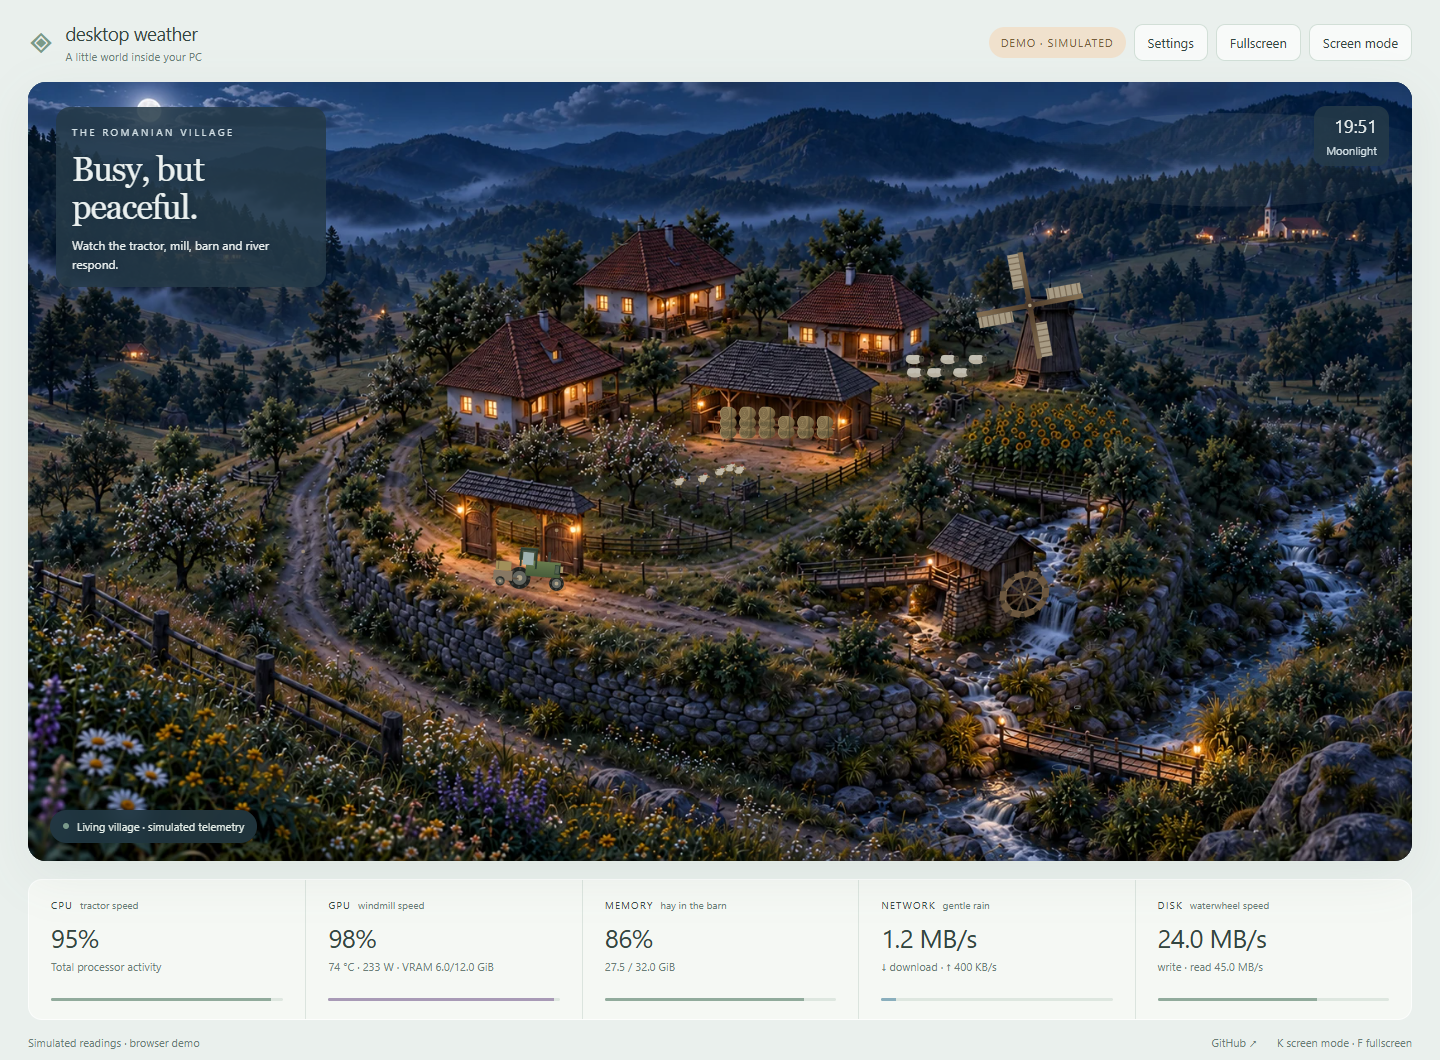
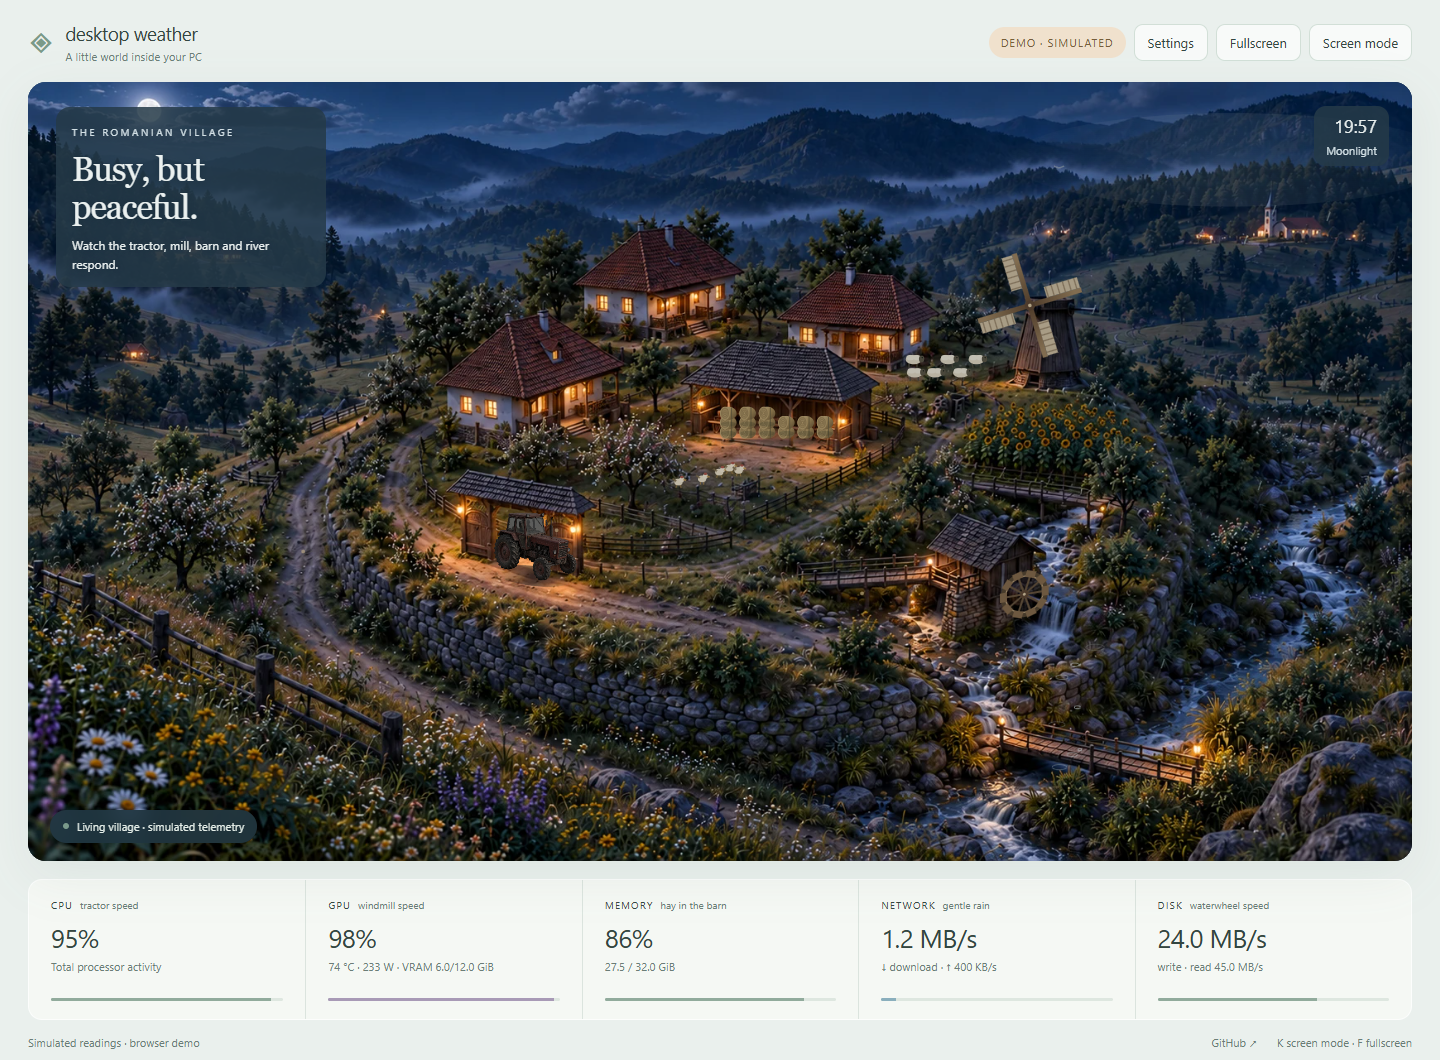
Replace geometric tractor with realistic textured sprite

Changed region(s): [[0.6562, 0.2179, 0.75, 0.3425], [0.3438, 0.467, 0.4062, 0.5604], [0.6875, 0.5292, 0.7188, 0.5915]]

diff --git a/public/app.js b/public/app.js
@@ -20,7 +20,9 @@ let inScreenMode = params.get('screen') === '1', fetchBusy = false;
 const media = matchMedia('(prefers-reduced-motion: reduce)');
 const scene = $('scene'), canvas = $('weather'), context = canvas.getContext('2d');
 let width = 1, height = 1, lastDraw = 0, frameCount = 0;
-const rural = createRuralRenderer(context, scenePoint, () => Math.min(width / 1672, height / 941));
+const tractorImage = new Image();
+tractorImage.src = new URL('./assets/tractor-real.webp', import.meta.url).href;
+const rural = createRuralRenderer(context, scenePoint, () => Math.min(width / 1672, height / 941), tractorImage);
 
 function persist() {
   try { localStorage.setItem('desktop-weather-settings', JSON.stringify({ light: settings.light, quality: settings.quality, rainScale: settings.rainScale, gpuIndex: settings.gpuIndex, showMetrics: settings.showMetrics })); } catch { }
@@ -159,3 +161,4 @@ media.addEventListener('change', resize);
 window.desktopWeather = { get state() { return { mode: settings.mode, connection, activity: { ...target }, frames: frameCount, animation: rural.stats }; } };
 updateSettings(); screenMode(inScreenMode); renderReadings(); sample();
 setInterval(sample, 3000); requestAnimationFrame(draw);
+

diff --git a/docs/validation.md b/docs/validation.md
@@ -3,7 +3,7 @@
 Local validation on Windows, 2026-10-03:
 
 - JavaScript syntax checks passed.
-- All 12 Node.js tests passed: core telemetry/security checks plus renderer motion, still mode and missing-data behavior.
+- All 13 Node.js tests passed: core telemetry/security checks plus renderer motion, still mode, missing-data behavior and tractor sprite loading/night shading.
 - Live CPU and memory readings verified through the local HTTP endpoint and browser.
 - Live Windows network/disk counter deltas verified; these were not forced with a benchmark or stress test.
 - Existing NVIDIA driver queried successfully for utilization, temperature, used/total VRAM, power and fan percentage. No driver or HWiNFO configuration changes.
@@ -11,7 +11,7 @@ Local validation on Windows, 2026-10-03:
 - Demo source switching, lighting, screen-mode keyboard recovery and GPU-driven scene state verified.
 - Eco mode drew 31 frames during a 2.1-second observation, consistent with the 15 FPS cap. This is a frame-count check, not a full GPU/CPU/memory benchmark.
 - Simulated collector HTTP failure changed the source to unavailable and cleared the readings; no silent demo fallback.
-- Browser checks verified tractor, windmill and waterwheel movement, the separate night artwork, and frozen machinery in Still mode. No unhandled browser script errors.
+- Browser checks verified the realistic tractor sprite loaded, tractor/windmill/waterwheel movement, the separate night artwork, and frozen machinery in Still mode. No unhandled browser script errors.
 
 The README image and night preview are screenshots of the actual browser prototype using labeled simulated readings. Day/night backgrounds are AI-generated raster artwork with procedural Canvas animation overlays; this is not a live 3D game. The full village remains visible while a softened landscape extension fills unusual screen ratios.
 

diff --git a/docs/art-direction.md b/docs/art-direction.md
@@ -9,3 +9,9 @@ Day prompt: One full-bleed wide 16:9 scene based on the approved middle concept.
 Night edit prompt: Change only lighting to cinematic blue-hour night. Preserve camera, framing, buildings, paths, terrace, axles, vegetation, mountains and stream for shared animation coordinates. Cool blue sky, soft moonlight, warm windows and sparse practical lanterns. Keep landscape visible. No added UI, text or foreground machinery.
 
 The extended portrait/ultrawide background is a blurred cover of the same artwork, behind the complete scene. Purpose-built layouts remain future work.
+
+## Tractor revision
+
+`public/assets/tractor-real.webp` replaces the geometric tractor with a transparent photographic sprite. Generated with the built-in OpenAI image generation tool, then converted to WebP preserving alpha. Prompt: a mechanically credible classic Romanian red farm tractor inspired by a 1980s Universal 650, worn painted steel, deep chevron tire treads, large rear and small front wheels, glass cab with driver, detailed engine/chassis, elevated three-quarter view, nose facing right, warm upper-left illumination. Entire vehicle isolated with transparent padding, no ground, baked shadow, text, logos or trailer; no cartoon or toy styling.
+
+Canvas adds a contact shadow, CPU-driven travel, slight body movement, travel-dependent dust and night shading. The tractor is a 2D sprite, not a rigged 3D vehicle; the photographed tires do not rotate independently. Scene geometry and telemetry collection are unchanged.
